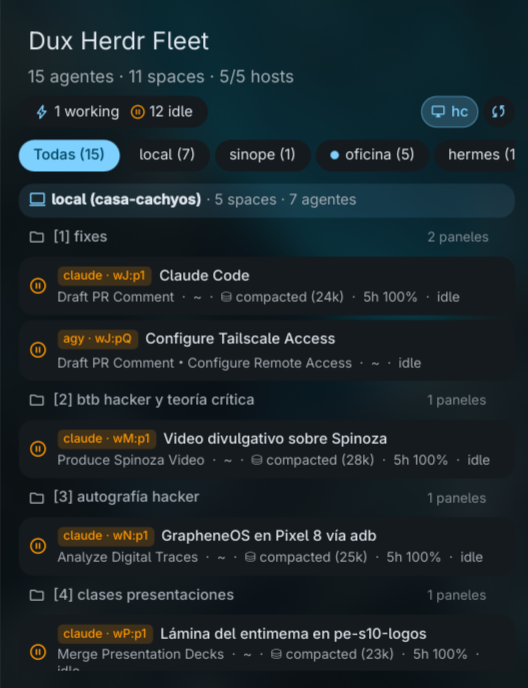
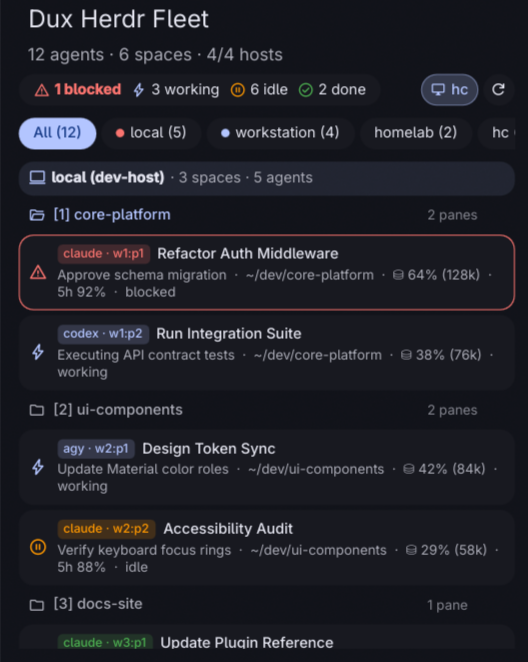
feat(i18n): use English base UI + Spanish translations and sanitize screenshot

diff --git a/HerdrFleetWidget.qml b/HerdrFleetWidget.qml
@@ -365,7 +365,7 @@ PluginComponent {
         PopoutComponent {
             id: popout
             headerText: "Dux Herdr Fleet"
-            detailsText: (root.totals.agents || 0) + " agentes · " + (root.totals.workspaces || 0) + " spaces · " + (root.totals.machines_reachable || 0) + "/" + (root.totals.machines_total || 0) + " hosts"
+            detailsText: (root.totals.agents || 0) + " " + I18n.trFor("duxHerdrFleet", "agents") + " · " + (root.totals.workspaces || 0) + " spaces · " + (root.totals.machines_reachable || 0) + "/" + (root.totals.machines_total || 0) + " hosts"
             showCloseButton: true
 
             onParentPopoutChanged: {
@@ -555,7 +555,7 @@ PluginComponent {
                         spacing: Theme.spacingXS
                         height: parent.height
 
-                        // "Todas" chip
+                        // "All" chip
                         StyledRect {
                             height: 26
                             width: allChipText.implicitWidth + Theme.spacingM * 2
@@ -566,7 +566,7 @@ PluginComponent {
                             StyledText {
                                 id: allChipText
                                 anchors.centerIn: parent
-                                text: "Todas (" + (root.totals.agents || 0) + ")"
+                                text: I18n.trFor("duxHerdrFleet", "All") + " (" + (root.totals.agents || 0) + ")"
                                 font.pixelSize: Theme.fontSizeSmall
                                 font.weight: root.selectedMachine === "all" ? Font.Medium : Font.Normal
                                 color: root.selectedMachine === "all" ? Theme.onPrimary : Theme.surfaceText
@@ -645,7 +645,7 @@ PluginComponent {
 
                         StyledText {
                             visible: (root.totals.agents || 0) === 0 && !sharedRefreshing.value
-                            text: "No hay agentes activos en las máquinas monitoreadas"
+                            text: I18n.trFor("duxHerdrFleet", "No active agents across monitored machines")
                             color: Theme.surfaceVariantText
                             font.pixelSize: Theme.fontSizeMedium
                         }
@@ -691,8 +691,8 @@ PluginComponent {
 
                                         StyledText {
                                             text: machineBlock.modelData.reachable
-                                                ? "· " + ((machineBlock.modelData.workspaces || []).length) + " spaces · " + ((machineBlock.modelData.counts && machineBlock.modelData.counts.total) || 0) + " agentes"
-                                                : "· sin conexión"
+                                                ? "· " + ((machineBlock.modelData.workspaces || []).length) + " spaces · " + ((machineBlock.modelData.counts && machineBlock.modelData.counts.total) || 0) + " " + I18n.trFor("duxHerdrFleet", "agents")
+                                                : "· " + I18n.trFor("duxHerdrFleet", "offline")
                                             font.pixelSize: Theme.fontSizeSmall
                                             color: machineBlock.modelData.reachable ? Theme.surfaceVariantText : Theme.error
                                             anchors.verticalCenter: parent.verticalCenter
@@ -743,7 +743,7 @@ PluginComponent {
                                                 }
 
                                                 StyledText {
-                                                    text: (wsBlock.modelData.pane_count || 0) === 1 ? "1 panel" : (wsBlock.modelData.pane_count || 0) + " paneles"
+                                                    text: (wsBlock.modelData.pane_count || 0) === 1 ? I18n.trFor("duxHerdrFleet", "1 pane") : I18n.trFor("duxHerdrFleet", "%1 panes").arg(wsBlock.modelData.pane_count || 0)
                                                     font.pixelSize: 11
                                                     color: Theme.surfaceVariantText
                                                     opacity: 0.75

diff --git a/HerdrFleetSettings.qml b/HerdrFleetSettings.qml
@@ -17,7 +17,7 @@ PluginSettings {
 
     StyledText {
         width: parent.width
-        text: "Supervisa agentes y spaces de herdr en tu máquina local, máquinas remotas por SSH (`herdr machine list`) y opcionalmente la nueva Herdr Desktop App (`hc` / `herdr-core`). Clic izquierdo abre el panel, clic derecho refresca, clic medio enfoca la ventana de herdr."
+        text: I18n.trFor("duxHerdrFleet", "Monitors herdr agents and workspaces across your local machine, remote SSH machines (`herdr machine list`), and optionally the Herdr Desktop App (`hc` / `herdr-core`). Left-click opens the popout, right-click refreshes, middle-click focuses the herdr window.")
         font.pixelSize: Theme.fontSizeSmall
         color: Theme.surfaceVariantText
         wrapMode: Text.WordWrap
@@ -25,46 +25,46 @@ PluginSettings {
 
     ToggleSetting {
         settingKey: "includeRemoteMachines"
-        label: "Monitorear máquinas remotas (SSH)"
-        description: "Consulta todas las máquinas habilitadas en `herdr machine list` mediante `herdr --machine <host> api snapshot`"
+        label: I18n.trFor("duxHerdrFleet", "Monitor remote machines (SSH)")
+        description: I18n.trFor("duxHerdrFleet", "Queries all enabled machines in `herdr machine list` via `herdr --machine <host> api snapshot`")
         defaultValue: true
     }
 
     ToggleSetting {
         settingKey: "includeHerdrCore"
-        label: "Incluir Herdr Desktop App (hc)"
-        description: "Consulta también `hc ls --json` (`herdr-core`) para mostrar las terminales de la app gráfica de escritorio"
+        label: I18n.trFor("duxHerdrFleet", "Include Herdr Desktop App (hc)")
+        description: I18n.trFor("duxHerdrFleet", "Queries `hc ls --json` (`herdr-core`) to include terminals from the graphical desktop app")
         defaultValue: true
     }
 
     ToggleSetting {
         settingKey: "includeEmptySpaces"
-        label: "Mostrar spaces sin agentes activos"
-        description: "Incluye en la lista los workspaces abiertos aunque no tengan un agente corriendo actualmente"
+        label: I18n.trFor("duxHerdrFleet", "Show spaces without active agents")
+        description: I18n.trFor("duxHerdrFleet", "Includes open workspaces in the tree even when they have no running agent")
         defaultValue: false
     }
 
     SelectionSetting {
         settingKey: "pillDisplayMode"
-        label: "Texto en la barra"
-        description: "Qué contador mostrar junto al ícono en la barra"
+        label: I18n.trFor("duxHerdrFleet", "Bar pill label")
+        description: I18n.trFor("duxHerdrFleet", "What counter to display next to the bar icon")
         options: [
-            { label: "Total de agentes (con alerta si hay activos)", value: "total" },
-            { label: "Desglose (bloqueados / trabajando / total)", value: "breakdown" },
-            { label: "Solo bloqueados + trabajando", value: "activeOnly" },
-            { label: "Solo ícono", value: "iconOnly" }
+            { label: I18n.trFor("duxHerdrFleet", "Total agents (highlighted when active)"), value: "total" },
+            { label: I18n.trFor("duxHerdrFleet", "Breakdown (blocked / working / total)"), value: "breakdown" },
+            { label: I18n.trFor("duxHerdrFleet", "Blocked + working only"), value: "activeOnly" },
+            { label: I18n.trFor("duxHerdrFleet", "Icon only"), value: "iconOnly" }
         ]
         defaultValue: "breakdown"
     }
 
     SliderSetting {
         settingKey: "refreshInterval"
-        label: "Intervalo de actualización"
-        description: "Con qué frecuencia consultar el estado de las máquinas (segundos)"
+        label: I18n.trFor("duxHerdrFleet", "Refresh interval")
+        description: I18n.trFor("duxHerdrFleet", "How often to poll machine snapshots (seconds)")
         defaultValue: 8
         minimum: 3
         maximum: 60
-        unit: "seg"
+        unit: I18n.trFor("duxHerdrFleet", "sec")
         leftIcon: "schedule"
     }
 }

diff --git a/README.md b/README.md
@@ -11,7 +11,7 @@ Multi-machine & workspace agent monitor for [DankMaterialShell](https://danklinu
 - **Multi-Machine & Space Tree**: Automatically discovers your local `herdr` instance and all enabled SSH machines from `herdr machine list`, fetching `herdr [--machine <host>] api snapshot` in parallel via `collect-fleet`.
 - **Herdr Desktop App (`hc`) Toggle**: Built-in setting and one-click `hc` chip in the popout header to toggle monitoring of `herdr-core` (`hc ls --json`) terminals from the graphical Herdr app.
 - **Rich Agent Cards**: Displays agent provider (`claude`, `codex`, `agy`, `hermes`, etc.), pane ID, stripped terminal title / custom pane label, working directory, context token usage (`⛁ 68% (325k)`), rate-limit status (`5h 100%`), and live state (`blocked`, `working`, `idle`, `done`).
-- **Machine Filter Chips**: Filter the popout tree by machine (`Todas`, `local`, `casa-cachyos`, `sinope`, `hermes`, `hc`) with status indicator dots.
+- **Machine Filter Chips**: Filter the popout tree by machine (`All`, `local`, `workstation`, `homelab`, `hc`) with status indicator dots.
 - **One-Click Focus + Niri Integration**:
   - Click an **agent card** to focus its pane (`herdr [--machine <host>] agent focus <pane_id>` or `herdr-app do agent.focus --terminal <addr>`) and focus the `herdr` terminal window in Niri.
   - Click a **space header** to focus that workspace (`herdr [--machine <host>] workspace focus <ws_id>`).
